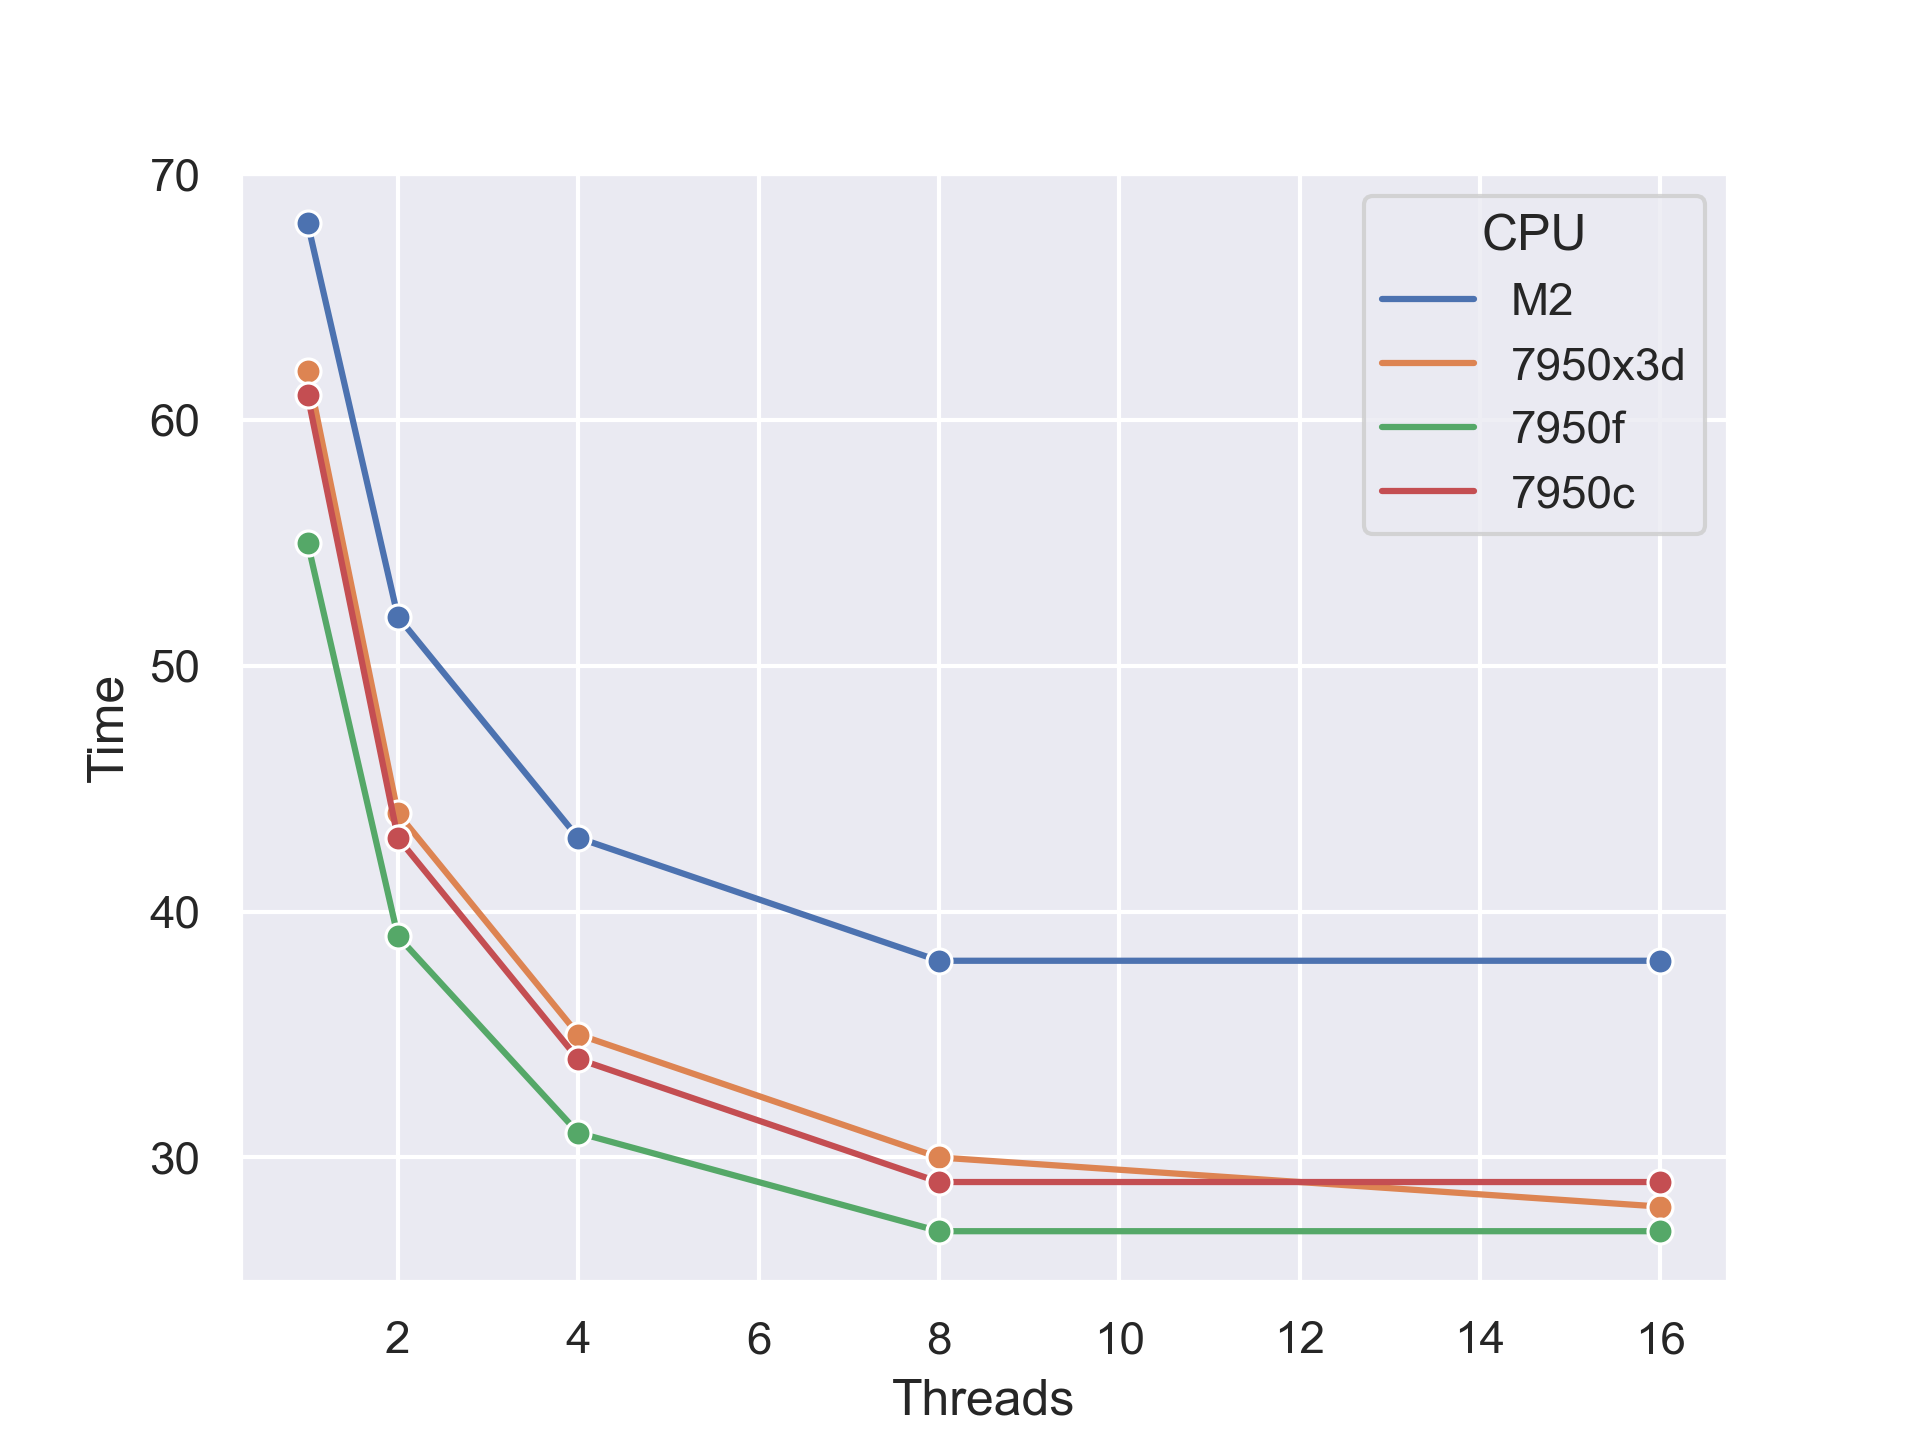
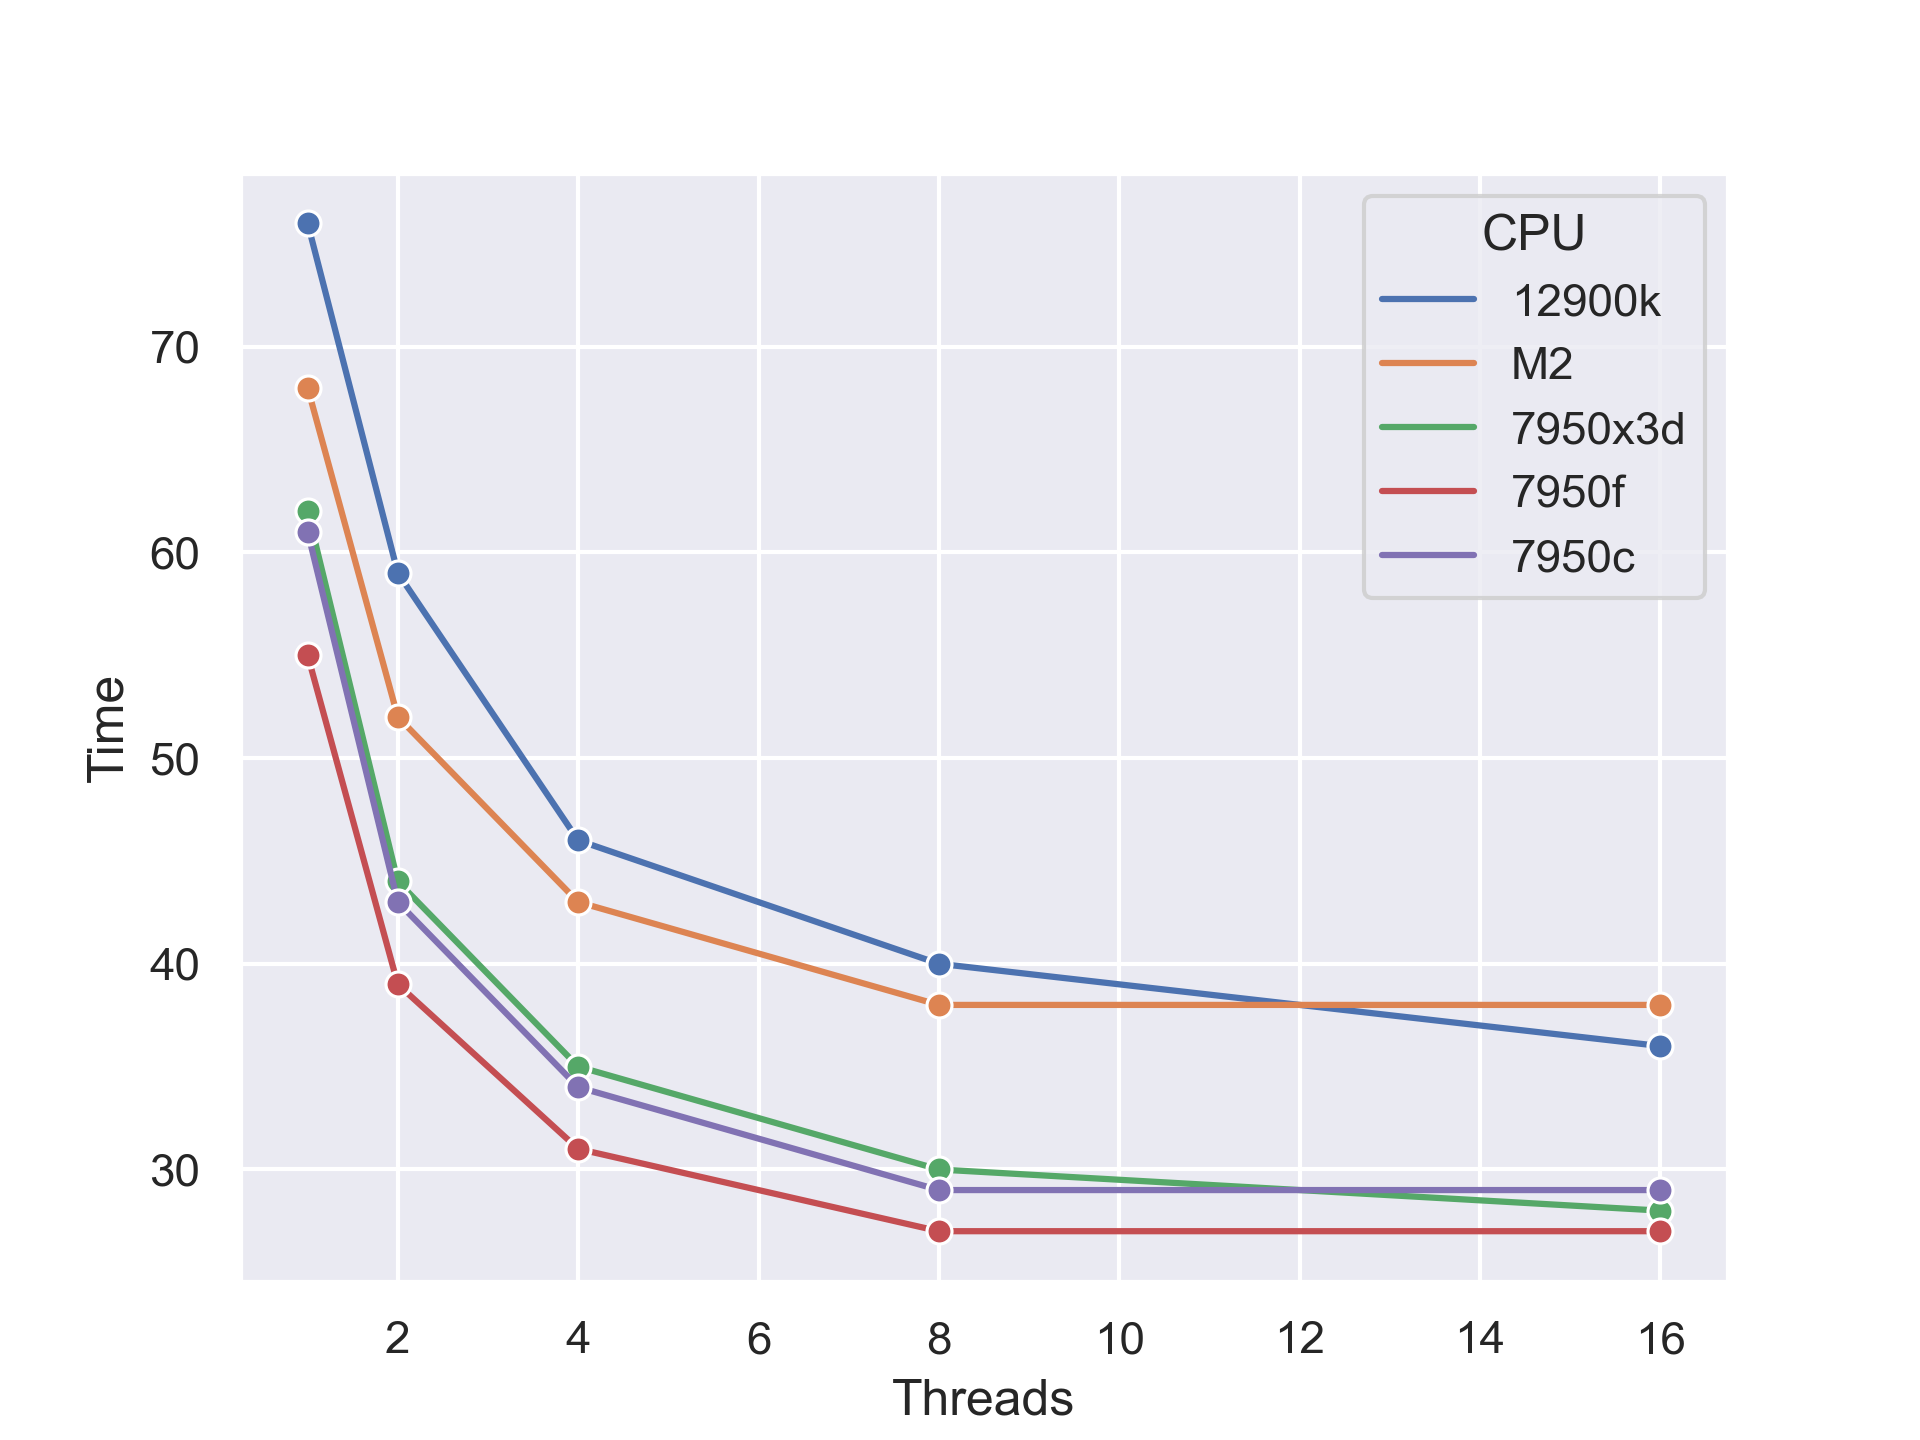
1290k timings

diff --git a/afni_bench_py.py b/afni_bench_py.py
@@ -9,9 +9,9 @@ import pandas as pd
 import numpy as np
 import seaborn as sns
 import matplotlib.pyplot as plt
-df = pd.DataFrame({'CPU': ['M2','M2','M2','M2','M2','7950x3d','7950x3d','7950x3d','7950x3d','7950x3d','7950f','7950f','7950f','7950f','7950f','7950c','7950c','7950c','7950c','7950c'],
-					'Threads': [1,2,4,8,16, 1,2,4,8,16, 1,2,4,8,16, 1,2,4,8,16],
-					'Time': [68,52,43,38,38, 62,44,35,30,28, 55,39,31,27,27, 61,43,34,29,29]})
+df = pd.DataFrame({'CPU': ['12900k','12900k','12900k','12900k','12900k', 'M2','M2','M2','M2','M2','7950x3d','7950x3d','7950x3d','7950x3d','7950x3d','7950f','7950f','7950f','7950f','7950f','7950c','7950c','7950c','7950c','7950c'],
+					'Threads': [1,2,4,8,16, 1,2,4,8,16, 1,2,4,8,16, 1,2,4,8,16, 1,2,4,8,16],
+					'Time': [76,59,46,40,36, 68,52,43,38,38, 62,44,35,30,28, 55,39,31,27,27, 61,43,34,29,29]})
 sns.set()
 ax = sns.lineplot(x='Threads', y='Time', hue='CPU', data=df, marker='o')
 #plt.show()

diff --git a/README.md b/README.md
@@ -2,7 +2,7 @@
 
 Neuroimaging is a powerful tool for understanding the function of the healthy brain, pathology, the consequences of aging, guiding treatment, and evaluating treatment. However, the analysis of brain imaging data is very compute intensive. Neuroimaging teams make large investments in the computers used for image processing. The objective of this page is to evaluate different architectures for analysing brain imaging data.
 
-For example, when purchasing a 32-core server, the competition includes the AMD EPYC 9374F (256mb L3, 3.85-4.1GHz, 320w, $4,780), or 9384X (768mb L3, 3.1-3.5GHz, 320w, $5529), versus the Intel [Sapphire Rapids based Xeon Platinum](https://en.wikipedia.org/wiki/Sapphire_Rapids) 8462Y (60mb cache, 2.8-4.1GHz, 300w, $5945, 2 socket) or 8454 (82.5mb cache, 2.1-3.7GHz, 270w, $6540, 8 socket). Note the tradeoff in the AMD CPUs: one can choose the faster 9374F or the larger cache of the 9384X. The large cache can benefit [some tasks, but not others](https://www.anandtech.com/show/18747/the-amd-ryzen-9-7950x3d-review-amd-s-fastest-gaming-processor/4). Therefore, it is worth evaluating how different vendors (AMD vs Intel) and different tradeoffs (cache versus speed) influence neuroimaging pipelines. Many 3D neuroimaging operations such as spatial normalization, Gaussian blur and matrix-based statistics would seem to benefit from larger caches. However, many of the operations are too large to fit into any cache, and the data is often read in a predictable, sequential order. Here we evaluate the 7950x3d which has 8 fast cores and 8 cores that have access to a lot of cache, [where we can independently turn off cores](https://www.techpowerup.com/review/ryzen-7800x3d-performance-preview/) to directly measure the impact of cache and speed on the tools of our field.
+For example, when purchasing a 32-core server, the competition includes the AMD EPYC 9374F (256mb L3, 3.85-4.1GHz, 320w, $4,780), or 9384X (768mb L3, 3.1-3.5GHz, 320w, $5529), versus the Intel [Sapphire Rapids based Xeon Platinum](https://en.wikipedia.org/wiki/Sapphire_Rapids) 8462Y (60mb cache, 2.8-4.1GHz, 300w, $5945, 2 socket) or 8454H (82.5mb cache, 2.1-3.7GHz, 270w, $6540, 8 socket). Note the tradeoff in the AMD CPUs: one can choose the faster 9374F or the larger cache of the 9384X. The large cache can benefit [some tasks, but not others](https://www.anandtech.com/show/18747/the-amd-ryzen-9-7950x3d-review-amd-s-fastest-gaming-processor/4). Therefore, it is worth evaluating how different vendors (AMD vs Intel) and different tradeoffs (cache versus speed) influence neuroimaging pipelines. Many 3D neuroimaging operations such as spatial normalization, Gaussian blur and matrix-based statistics would seem to benefit from larger caches. However, many of the operations are too large to fit into any cache, and the data is often read in a predictable, sequential order. Here we evaluate the 7950x3d which has 8 fast cores and 8 cores (using the same architecture as the  9374F and 9384X)that have access to a lot of cache, [where we can independently turn off cores](https://www.techpowerup.com/review/ryzen-7800x3d-performance-preview/) to directly measure the impact of cache and speed on the tools of our field. Here we also test an Intel i9 12900ks, which uses the same architecture as the 8462Y and 8454H.
 
 Neuroimaging servers tend to choose either Intel or AMD CPUs, as these benefit from a complete ecosystem of tools and have access to NVidia GPUs that dramatically accelerate some tasks (e.g. bedpost, eddy, probtrackx). We have previously described the potential for [ARM-based Apple CPUs](https://github.com/neurolabusc/AppleSiliconForNeuroimaging) and include the Apple M2 CPU here for reference. Indeed, [NVidia is introducing ARM-based CPUs with their CUDA GPUs](https://www.nvidia.com/en-us/data-center/grace-hopper-superchip/) which may be a long-term game changer, but is beyond the scope of this page.
 
@@ -10,10 +10,11 @@ While some of the tests below evaluate the influence of multiple threads to acce
 
 ## Testing
 
-Four computers were tested:
+Three computers were tested, with a ram disk used to minimize IO differences:
 
- - MacBook Pro 16 (2022) with [Apple M2 Pro](https://en.wikipedia.org/wiki/Apple_M2) 12 (8+4) core, L2 32mb, L3 24 mb, maximum bandwidth 200 GB/s, integrated GPU. 
- - Ubuntu 23.04 AMD [Ryzen 7950x3d](https://en.wikipedia.org/wiki/List_of_AMD_Ryzen_processors#Raphael_(7000_series,_Zen_4_based)) 16 core, L2 16mb, L3 128 mb (8 fast cores share 32mb, 8 share 96mb), maximum bandwidth 100 GB/s. We refer to this chip as `7950x3d` when all 16 cores are enabled, `7950f` when only the fast 8 cores are enabled, and `7950c` when only the 8 cores with the extra 3D cache are enabled.
+ - MacBook Pro 16 (2022) with [Apple M2 Pro](https://en.wikipedia.org/wiki/Apple_M2) 12 (8+4) core, L2 32mb, L3 24 mb, maximum bandwidth 200 GB/s, 3.5GHz, integrated GPU. 
+ - AMD [Ryzen 7950x3d](https://en.wikipedia.org/wiki/List_of_AMD_Ryzen_processors#Raphael_(7000_series,_Zen_4_based)) 16 core, L2 16mb, L3 128 mb (8 fast cores share 32mb, 8 share 96mb), 64Gb DDR4 6000, Ubuntu 23.04, 4.2-5.5 Ghz. We refer to this chip as `7950x3d` when all 16 cores are enabled, `7950f` when only the fast 8 cores are enabled, and `7950c` when only the 8 cores with the extra 3D cache are enabled.
+ -  Intel [I9 12900ks](https://en.wikipedia.org/wiki/List_of_Intel_Core_i9_processors#Alder_Lake_(Intel_7,_12th_generation)) 16 core (8 efficiency), L2 14mb, L3 30 mb , 64Gb DDR3 3200, Ubuntu 23.04, 3.4-5.5 Ghz. We refer to this chip as `7950x3d` when all 16 cores are enabled, `7950f` when only the fast 8 cores are enabled, and `7950c` when only the 8 cores with the extra 3D cache are enabled.
 
 ## AFNI Parallel Processing
 
@@ -27,10 +28,10 @@ The graph below shows the total time to compute the [AFNI_data6 s01.ap.simple sc
 
 ```
 Rank   System/CPU                (sec)
-Apple M2 Pro 12-core (8 big)        x
 AMD 7950f 8-core (fast)           252
 AMD 7950c 8-core (big cache)      273
 AMD 7950x3D 16-core               283
+Intel 12900k 16-core (8 big)      365
 ```
 
 ## FSL Single Threaded Pipeline
@@ -43,18 +44,19 @@ Apple M2 Pro 12-core (8 big)        345
 AMD 7950x3D 8-core (fast)           372
 AMD 7950x3D 16-core                 385
 AMD 7950x3D 8-core (big cache)      396
+Intel 12900k 16-core (8 big)        546
 ```
 
 One could argue that feeds is designed to validate the accuracy of each tool, with relatively small datasets. A more realistic test is the registration dataset from the [FSL training course](https://open.win.ox.ac.uk/pages/fslcourse/website/index.html) which computes the complex spatial preprocessing for a typical modern dataset.
 
 ```
 Rank   System/CPU                  (sec)
+Intel 12900k 16-core (8 big)        706
 Apple M2 Pro 12-core (8 big)        796
 AMD 7950f 8-core (fast)             788
 AMD 7950x3D 16-core                 806
 AMD 7950c 8-core (big cache)        879
 ```
-
 
 ## POSIX Threads (pthreads)
 
@@ -64,15 +66,31 @@ AMD 7950c 8-core (big cache)        879
 Rank   System/CPU                  (msec)  Threads
 Ampere Altra A1 3.0GHz 160-core       413     200
 AMD 7950x3D 16-core                  1245     120
+Intel 12900k 16-core (8 big)         1548     120
 Apple M2 Pro 12-core (8 big) 3.7GHz  1640      64
 Apple M2 Pro 12-core (8 big) 3.7GHz 14014       1
+Intel 12900k 16-core (8 big)        16257       1
 AMD 7950x3D 16-core                 18691       1
 Ampere Altra A1 3.0GHz 160-core     34563       1
 ```
 
+## CUDA graphics cards
+
+A handful of neuroimaging tools are dramatically accelerated by using a CUDA-compatible graphics card (GPU) rather than the central processing unit (CPU). This includes the FSL tools [Bedpostx](https://journals.plos.org/plosone/article?id=10.1371/journal.pone.0061892), [Eddy](https://fsl.fmrib.ox.ac.uk/fsl/fslwiki/eddy/UsersGuide) and [Probtrackx](https://www.sciencedirect.com/science/article/pii/S1053811918321591). However, in our experience these tools perform similarly with consumer-grade GPUs and much more expensive professional grade GPUs (which provide features like high-bandwidth memory and faster double precision floating point computations). Indeed, while these GPU-based tools are dramatically faster than their CPU-based counterparts, looking at tools like nvidia-smi suggests that these GPU tools are often limited by the data transfer to the CPU. This suggests that their may be rapidly diminishing returns when selecting a graphics card for neuroimage. Here we evaluate the speed for processing our [gpu_test](https://github.com/neurolabusc/gpu_test). These tests were designed simply to ensure the graphics cards were working, so are faster that real world applications, but they are similar in the processing. We tested two graphics cards on a single computer (the i9 12900k) which used the integrated graphics for the display (so the GPU was dedicated for processing).  
+
+| Test          | RTX3060 (sec) | RTX3090 (sec) |
+| ------------- | ------------- | ------------- |
+| Bedpostx      | 75            | 69            |
+| Eddy          | 34            | 34            |
+| Probtrackx    | 175           | 178           |
+
+We did not find a dramatic performance difference between the $1500 RTX3090 with 24 Gb and the $329 RTX3060 with 12 Gb. There still may be benefits for graphics cards when considering machine learning inference.
+
+
 ## Conclusions
 
  - In aggregate, AMD's 3D cache does not appear to benefit thetools used in neuroimaging, so the EPYC 9374F is likely to out perform the more expensive 9384X.
+ - No CPU evaluated dominated the results, and each appears competitive. In this test, single threaded tasks were done an otherwise dormant system (allowing unrestricted boost of a single thread), while typical servers will be running many concrurrent tasks. 
  - Empirically, Apple M2 has excellent single-threaded performance. This likely reflects its prodigious bandwidth (among other benefits). Clearly, MacBooks provide a great platform for developing pipelines to be deployed for large datasets on the cloud and servers. Unfortunately, some neuroimaging tools rely on NVidia's CUDA that is not available on MacOS. It will be interesting to see how [NVidia ARM-based CPUs with CUDA GPUs](https://www.nvidia.com/en-us/data-center/grace-hopper-superchip/) compete in this domain.
 
 ## Links
